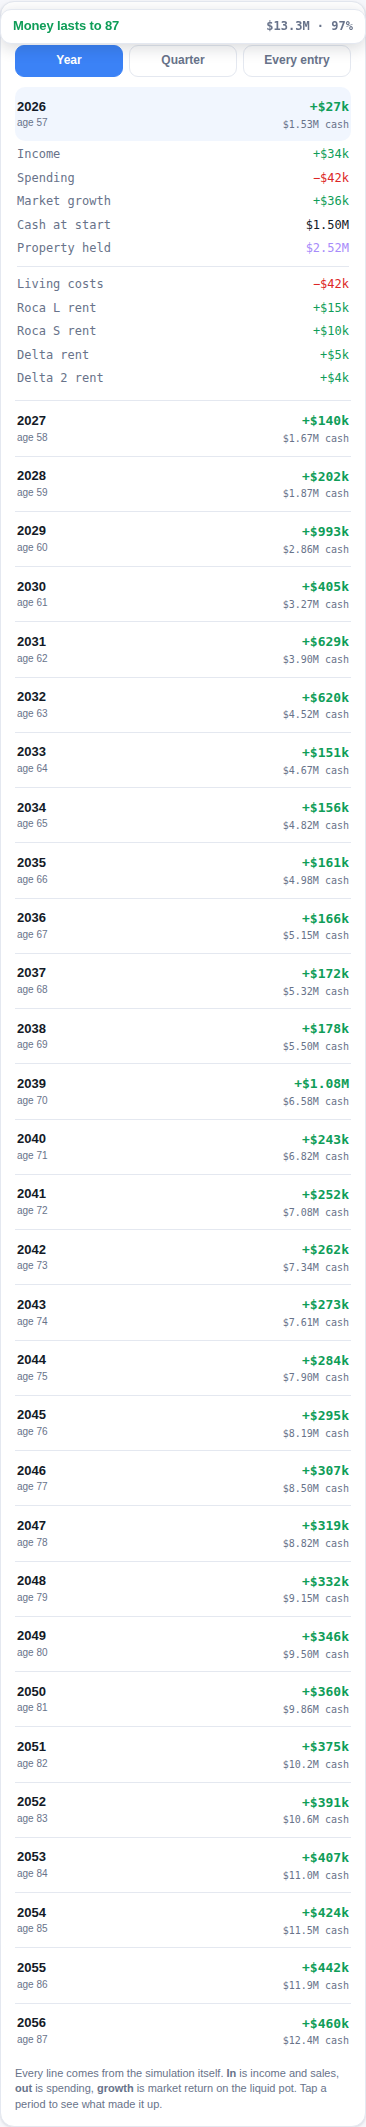
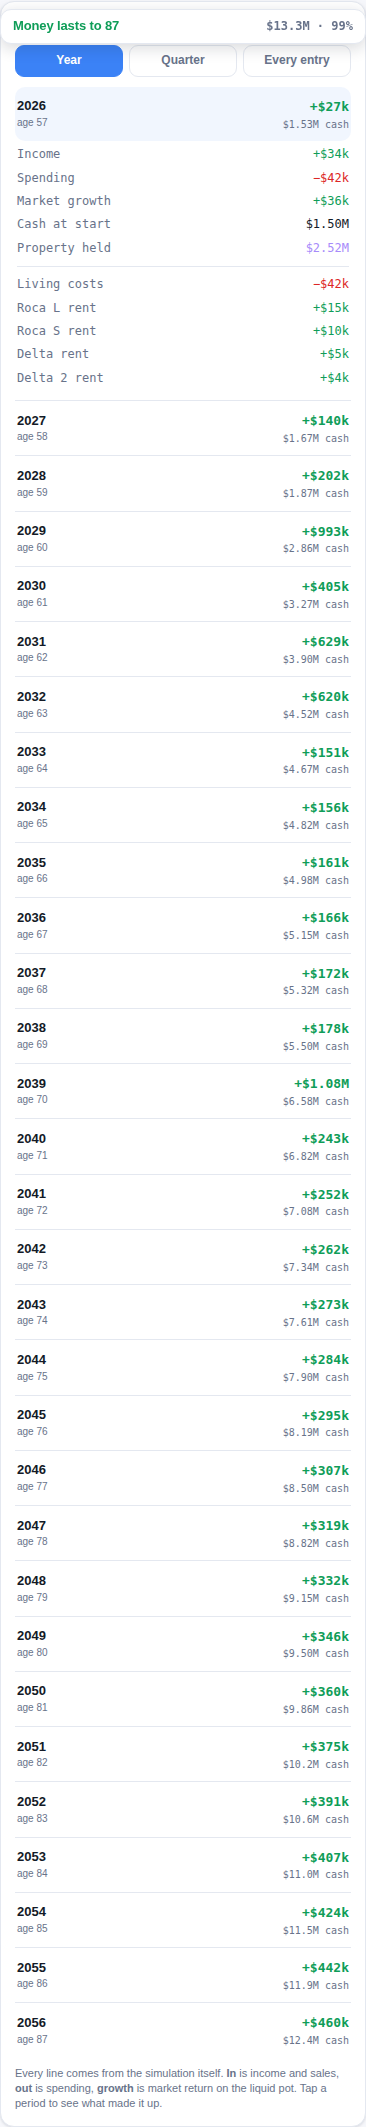
Pull IBKR from the phone
Adds a "↓ IBKR" button beside the cash figure that calls the same
get-ibkr-liquid function the desktop uses. A successful pull is treated as a
real edit, so it persists and reaches the desktop through the usual sync rather
than living only on the phone.

Two deliberate differences from the desktop. The pull is always manual, and it
always reports its error inline: the desktop's auto-sync only console.warns, so
a dead token presents as a stale figure rather than a failure — which is how
this went unnoticed for months. The button also shows how old the cached value
is ("today", "12 days ago"), because a number with no date beside it gives no
hint it might be months out of date.

Claude-Session: https://claude.ai/code/session_01WhJcZ9Se9VHsj4TqAnspTi

diff --git a/mobile.html b/mobile.html
@@ -319,6 +319,10 @@
     <div class="fg">
       <label class="wide"><span class="fl">Cash &amp; investments today</span>
         <input type="text" inputmode="numeric" data-s="liquidBase"></label>
+      <label class="wide" style="display:flex;gap:8px;align-items:center">
+        <button type="button" id="ibkr" class="p" style="flex:none;padding:9px 12px">↓ IBKR</button>
+        <span class="hint" id="ibkrMsg" style="margin:0;flex:1;min-width:0"></span>
+      </label>
       <label><span class="fl">Your age now</span>
         <input type="number" data-s="startAge" min="30" max="90"></label>
       <label><span class="fl">Property growth %/yr</span>
@@ -986,6 +990,40 @@
     } catch (e) { console.warn('could not inject actuals', e); return false; }
   }
 
+  // ── IBKR: pull Net Liquidation Value on demand ────────────────────────────
+  // Same Edge Function the desktop uses. Unlike the desktop's silent auto-sync this is
+  // always manual and always reports its error — a dead token showing up as a stale
+  // figure is exactly how this went unnoticed for months.
+  const IBKR_TS = 'futuro-ibkr-liquid-ts';
+  async function ibkrPull() {
+    const btn = $('ibkr'), msg = $('ibkrMsg');
+    if (!SB) { msg.innerHTML = '<span class="err">No cloud configured</span>'; return; }
+    btn.disabled = true; btn.textContent = '…';
+    try {
+      const r = await fetch(SB.url + '/functions/v1/get-ibkr-liquid',
+        { headers: { Authorization: 'Bearer ' + SB.key, apikey: SB.key } });
+      const d = await r.json().catch(() => ({}));
+      if (!r.ok) throw new Error(d.error || ('HTTP ' + r.status));
+      if (typeof d.liquid !== 'number') throw new Error(d.error || 'no value returned');
+      // Treated as a real edit so it persists and reaches the desktop, exactly as
+      // ibkrSync() does there.
+      edits.scen.liquidBase = d.liquid;
+      const inp = $('advCard').querySelector('[data-s="liquidBase"]');
+      if (inp) inp.value = Math.round(d.liquid).toLocaleString();
+      try {
+        localStorage.setItem('futuro-ibkr-liquid', String(d.liquid));
+        localStorage.setItem(IBKR_TS, new Date().toISOString());
+      } catch (e) {}
+      msg.textContent = fmt(d.liquid) + ' · just now';
+      renderLists();
+      render(true);
+    } catch (e) {
+      msg.innerHTML = '<span class="err">' + esc(e.message || String(e)) + '</span>';
+    } finally {
+      btn.disabled = false; btn.textContent = '↓ IBKR';
+    }
+  }
+
   function spentOn(cat) {
     const k = (cat || '').trim().toLowerCase();
     if (!actuals || !k || !actuals[k] || !actuals[k].byMonth) return null;
@@ -1238,6 +1276,20 @@
     });
   }
 
+  $('ibkr').addEventListener('click', ibkrPull);
+  // Show when the cached figure was last pulled. A number with no date beside it gives
+  // no hint that it might be months old.
+  (function showIbkrAge() {
+    try {
+      const v = parseFloat(localStorage.getItem('futuro-ibkr-liquid'));
+      const ts = localStorage.getItem(IBKR_TS);
+      if (v > 0 && ts) {
+        const days = Math.floor((Date.now() - Date.parse(ts)) / 86400000);
+        $('ibkrMsg').textContent = fmt(v) + ' · ' +
+          (days <= 0 ? 'today' : days === 1 ? 'yesterday' : days + ' days ago');
+      }
+    } catch (e) {}
+  })();
   $('ledgerCard').addEventListener('toggle', () => render(true));
   $('ledGrain').addEventListener('click', e => {
     const b = e.target.closest('button[data-g]');
